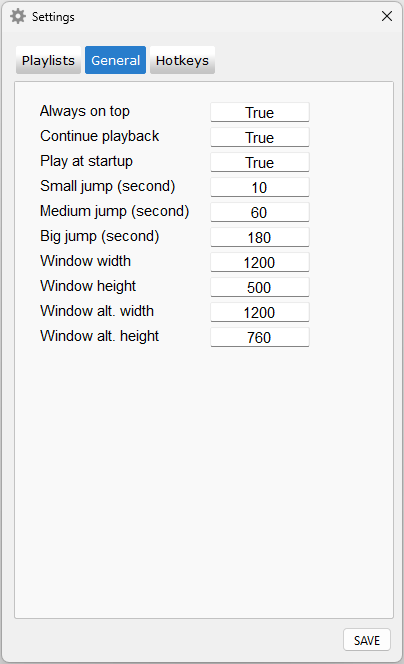
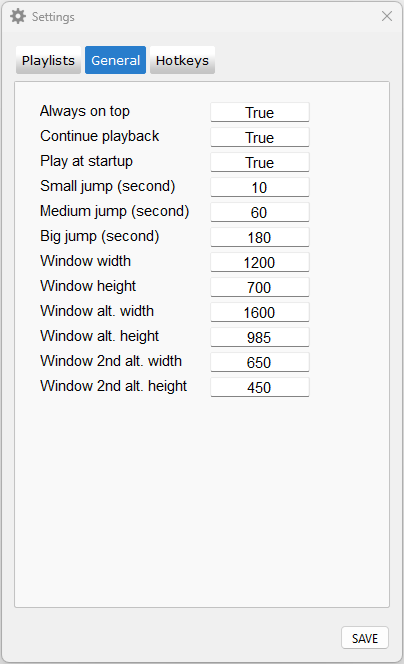
use the latest window size vars when swithcing win.size, new screenshot, readme - settings wind./ General tab update

diff --git a/src/func_coll.py b/src/func_coll.py
@@ -576,3 +576,11 @@ def clear_queue_update_all_occurrences():
         update_queued_tracks_order_number(clear_queue = True)
         cv.queue_tracks_list.clear()
         cv.queue_playlists_list.clear()
+
+def update_window_size_vars_from_saved_values():
+    cv.window_width = settings['general_settings']['window_width']
+    cv.window_height = settings['general_settings']['window_height']
+    cv.window_alt_width = settings['general_settings']['window_alt_width']
+    cv.window_alt_height = settings['general_settings']['window_alt_height']
+    cv.window_second_alt_width = settings['general_settings']['window_second_alt_width']
+    cv.window_second_alt_height = settings['general_settings']['window_second_alt_height']

diff --git a/main.py b/main.py
@@ -46,7 +46,8 @@ from src import (
     update_raw_current_duration_db,
     queue_add_remove_track,
     logger_basic,
-    remove_track_from_playlist
+    remove_track_from_playlist,
+    update_window_size_vars_from_saved_values
     )
 
 
@@ -131,6 +132,8 @@ class MyWindow(QWidget):
 
     def window_size_toggle_action(self):
         cv.window_size_toggle_counter =  (cv.window_size_toggle_counter + 1) % 3
+        update_window_size_vars_from_saved_values()
+        
         # 1ST
         if cv.window_size_toggle_counter == 1:
             button_toggle_playlist_clicked()

diff --git a/README.md b/README.md
@@ -58,7 +58,35 @@
         - The pop-up window title: ERROR - TAB'S NAME (where the invalid value occurred).
 
 ### General
-- Coming
+- `Always on top`: Keeps the player on top of other currently running applications
+- `Continue playback`:
+    - Saves the duration of the currently playing track every 5 seconds
+    - When revisiting the same track, the play continuous from the latest, saved position
+- `Play at startup`:
+    - Automatically plays the last played track at startup
+    - If the track was removed while playing, at the next startup it plays the track in the same row
+    - If the last play track removed and there is no track in the same row:
+        - If the playlist is not empty: It plays the first track of the playlist
+        - If the playlist is empty: No tracked played
+- `Small / Medium / Big jump`: 
+    - Seconds the player position will be moved (forward/backward)
+    - Hotkeys of the direction/jump type are in the `Hotkeys tab`
+- `Window width-height / alt. / 2nd alt.`:
+    - Values of the different window sizes
+    - To switch between the different window sizes use the `Window alt. size` hotkey (`Hotkeys tab`)
+    - `Window width-height`:
+        - The size of the window at startup or the window size toggle hotkey pressed thrice
+        - Both video and playlist section/window are visible
+    - `Window alt. width-height`: 
+        - The size of the window after the window size toggle hotkey pressed once
+        - Only the video window is visible, the playlist window is hidden
+    - `Window 2nd alt. width-height`: 
+        - The size of the window after the window size toggle hotkey pressed twice
+        - Only the video window is visible, the playlist window is hidden
+    - Ideas:
+        - Use the first alt. window size when the user is close to a wide screen (e.g.: having a lunch)
+        - Use the second alt. window size when player is secondary and it is placed in the right, bottom corner of the screen (e.g.: browsing)
+        - Adjust the sizes according the currently played TV show`s video ratio to avoid black bars 
 
 ### Hotkeys
 - Acceptable hotkey formats: `M`, `m`, `Ctrl`, `ctRL`, `M+Ctrl`, `M+Ctrl+Space`
